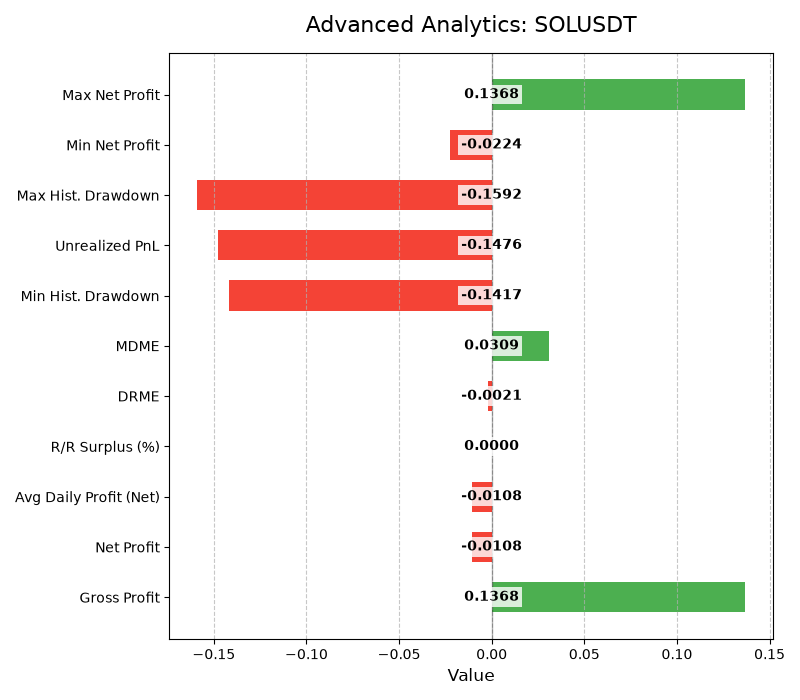
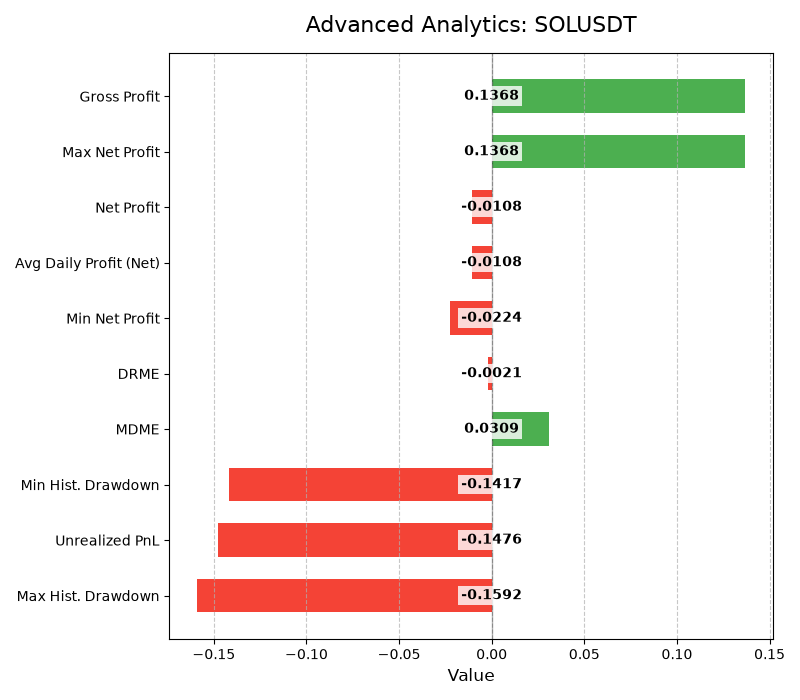
Analytics formatting and Max Position Size bugfix
- Updated analytics formulas to use Notional Size instead of Margin Size for max_position_size calculation.
- Removed arbitrary percentage multiplier from R/R Surplus to correct chart scaling.
- R/R Surplus (%) metric restored in TG outputs, while omitting it from visual chart.
- Grouped chart metrics by type (Profits Top, Magic Middle, Drawdowns Bottom).

diff --git a/ANALYTICS/plotter.py b/ANALYTICS/plotter.py
@@ -126,7 +126,6 @@ def generate_coin_analytics(symbol: str) -> str:
     
     # Extract metrics
     avg_daily = cdata.get("avg_daily_profit", 0.0)
-    reward_risk_surplus = cdata.get("reward_risk_surplus_pct", 0.0)
     drme = cdata.get("DRME", 0.0)
     mdme = cdata.get("MDME", 0.0)
     max_dd = cdata.get("max_drawdown", 0.0)
@@ -139,17 +138,16 @@ def generate_coin_analytics(symbol: str) -> str:
     min_np = cdata.get("min_net_profit", net_profit)
     
     metrics = {
-        "Gross Profit": gross_profit,
-        "Net Profit": net_profit,
-        "Avg Daily Profit (Net)": avg_daily,
-        "R/R Surplus (%)": reward_risk_surplus,
-        "DRME": drme,
-        "MDME": mdme,
-        "Min Hist. Drawdown": min_dd,
-        "Unrealized PnL": cur_dd,
         "Max Hist. Drawdown": max_dd,
+        "Unrealized PnL": cur_dd,
+        "Min Hist. Drawdown": min_dd,
+        "MDME": mdme,
+        "DRME": drme,
         "Min Net Profit": min_np,
-        "Max Net Profit": max_np
+        "Avg Daily Profit (Net)": avg_daily,
+        "Net Profit": net_profit,
+        "Max Net Profit": max_np,
+        "Gross Profit": gross_profit
     }
     
     labels = list(metrics.keys())

diff --git a/ANALYTICS/analytics.py b/ANALYTICS/analytics.py
@@ -71,7 +71,7 @@ class AnalyticsManager:
             "max_drawdown_usdt": "Maximum historical drawdown (trough - peak).",
             "performance_usdt": "Maximum historical growth from start balance (peak - start_balance).",
             "avg_daily_profit": "[Per-Coin] Average profit per active day of trading for this coin.",
-            "max_position_size": "[Per-Coin] Max historical margin size actually reached (real deployed margin).",
+            "max_position_size": "[Per-Coin] Max historical notional size actually reached (total volume * price).",
             "reward_risk_surplus_pct": "[Per-Coin] ((avg_daily_profit / abs(max_drawdown)) - 1) * 100.",
             "DRME": "[Per-Coin] Daily Return on Max Exposure: avg_daily_profit / max_position_size.",
             "MDME": "[Per-Coin] Max Drawdown on Max Exposure: abs(max_drawdown) / max_position_size.",
@@ -120,9 +120,7 @@ class AnalyticsManager:
                         if side in rt_data and rt_data[side].get("enable"):
                             vol = float(rt_data[side].get("total_volume", 0.0))
                             price = float(rt_data[side].get("avg_entry_price", 0.0))
-                            lev = float(rt_data[side].get("leverage", 1.0))
-                            if lev <= 0: lev = 1.0
-                            current_margin += (abs(vol) * price) / lev
+                            current_margin += abs(vol) * price
                 except Exception:
                     pass
                     

diff --git a/TG/tg_receiver.py b/TG/tg_receiver.py
@@ -380,7 +380,7 @@ class TelegramReceiver:
                 "▪️ <b>cur_balance_usdt</b>: Current margin balance → <i>Start Balance + Net Profit</i>\n\n"
                 "<b>🪙 Per-Coin Metrics</b>\n"
                 "▪️ <b>avg_daily_profit</b>: Average profit per active day of trading\n"
-                "▪️ <b>max_position_size</b>: Max historical margin size actually reached (real size)\n"
+                "▪️ <b>max_position_size</b>: Max historical notional size actually reached (real volume * price)\n"
                 "▪️ <b>reward_risk_surplus_pct</b>: <i>((Avg Daily Profit / |Max Drawdown|) - 1) * 100</i>\n"
                 "▪️ <b>DRME</b> (Daily Return on Max Exposure): <i>Avg Daily Profit / Max Position Size</i>\n"
                 "▪️ <b>MDME</b> (Max Drawdown on Max Exposure): <i>|Max Drawdown| / Max Position Size</i>\n"